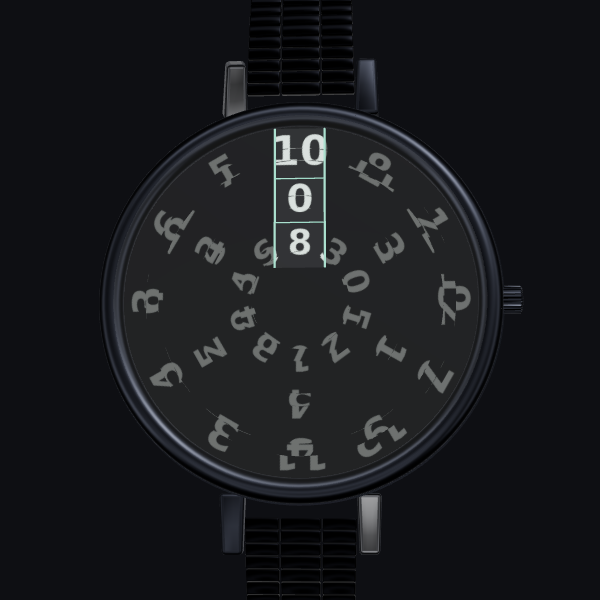
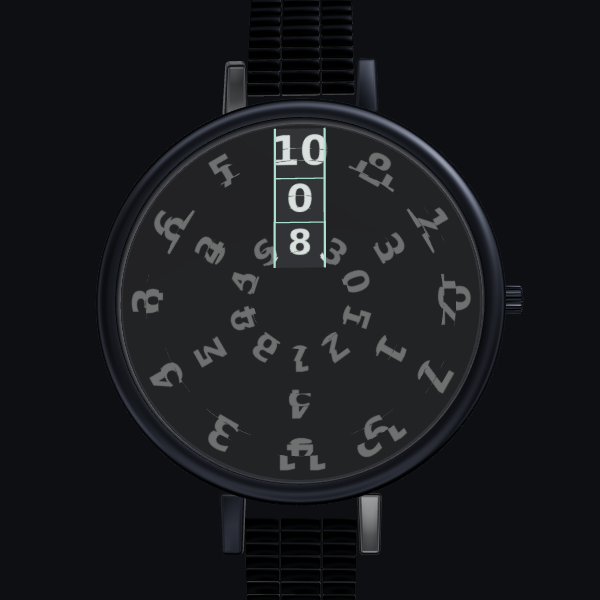
chore(release): v0.20.0
Claude-Session: https://claude.ai/code/session_01S6AKhfdxE2jM9ymmD2g4Kd

Changed region(s): [[0.15, 0.15, 0.84, 0.84]]

diff --git a/docs/roadmap.md b/docs/roadmap.md
@@ -71,18 +71,29 @@ backend), Plasma filaments follow a touch, and the shared strap, bracelet, crown
 are modelled in Blender (`blender/generate_assets.py`). A refactor pass shared the random
 numbers, clock angles, TSL node typing and test helpers.
 
+## 0.20.0 — Gallery polish, touch, physics and engraved cases
+
+The gallery's live views are centred in their cards and no longer trail behind while
+scrolling. Phase takes a touch as a third wave source; Plasma's filaments bend in 3D and
+strike with a synced crackle; Chladni sand holds an angle of repose and its grains collide;
+the Blender assets gained a coin-edge bezel and an engraved caseback and are
+meshopt-compressed. Refactor: shared async GPU resources and touch surface, split Chladni
+and Plasma modules.
+
 ## Next candidates
 
 Needs the user (cannot be done from the headless sandbox):
 
-- Visual review pass on real devices; tune lighting and the new Blender strap and lugs.
+- Visual review on real devices: lighting, the Blender strap, bezel, lugs and caseback
+  engraving; gallery scrolling smoothness.
 - Real-device check of `?renderer=auto` before making WebGPU the default
-  (`docs/rendering-and-webgpu.md` §9), of the tilt button on phones (gyroscope permission),
-  and of the frame cost of Phase's wave solver on low-end phones.
+  (`docs/rendering-and-webgpu.md` §9), the tilt button on phones (gyroscope permission),
+  and the frame cost of Phase's and Chladni's solvers on low-end phones.
+- Tags: release tags cannot be pushed from the cloud sandbox (see the release notes).
 
 Can be done next:
 
-- Phase: a touch on the crystal as a third wave source.
-- Plasma: filaments bending in 3D around the core; a crackle sound synced to the strikes.
-- Chladni: true grain–grain collisions (neighbour grid) and an angle of repose.
-- More Blender assets: bezels and engraved casebacks for the hero concepts.
+- Phase: emitters that can be switched off one by one to show how the focus degrades.
+- Plasma: branching filaments (short forks that die out in the gas).
+- Chladni: sand that spills off the plate edge; per-grain height for true 3D stacking.
+- Load the caseback only when the back of the watch is first shown (it is the largest asset).

diff --git a/CHANGELOG.md b/CHANGELOG.md
@@ -4,6 +4,31 @@ All notable changes to this project are documented here.
 The format follows [Keep a Changelog](https://keepachangelog.com/en/1.1.0/) and the
 project uses [Semantic Versioning](https://semver.org).
 
+## [0.20.0] - 2026-10-10
+
+### Fixed
+
+- **Gallery:** live views use the viewer's camera aimed at the watch centre (matching the
+  stills), and the live canvas moves with the page while it scrolls instead of the views
+  trailing behind it.
+- **Phase:** the warm-up no longer blows out around the emitters.
+
+### Added (roadmap "Next candidates")
+
+- **Phase touch:** a finger (or hovering mouse) on the crystal is a third wave source.
+- **Plasma:** filaments bend in 3D; about five strikes a second flash the filaments, with a
+  new `crackle` sound profile in sync (both from a pure function of the watch's time).
+- **Chladni:** an angle of repose (34°) for the pile, grain–grain contacts through a
+  neighbour grid (CPU and GPU), grains resting on top of the pile.
+- **Blender assets:** a coin-edge bezel that seats the crystal and a caseback with engraved
+  rings, an orbit emblem and lettering. All body GLBs are meshopt-compressed (`gltfpack`).
+
+### Changed
+
+- Refactor: `useAsyncDisposable`, shared `TouchSurface`, `randomEvents`; Chladni split into
+  plate / pile / contacts, Plasma into ribbons / Filaments / Phosphor; `stepSand` takes an
+  options object.
+
 ## [0.19.0] - 2026-10-09
 
 ### Added (roadmap "Next candidates")
